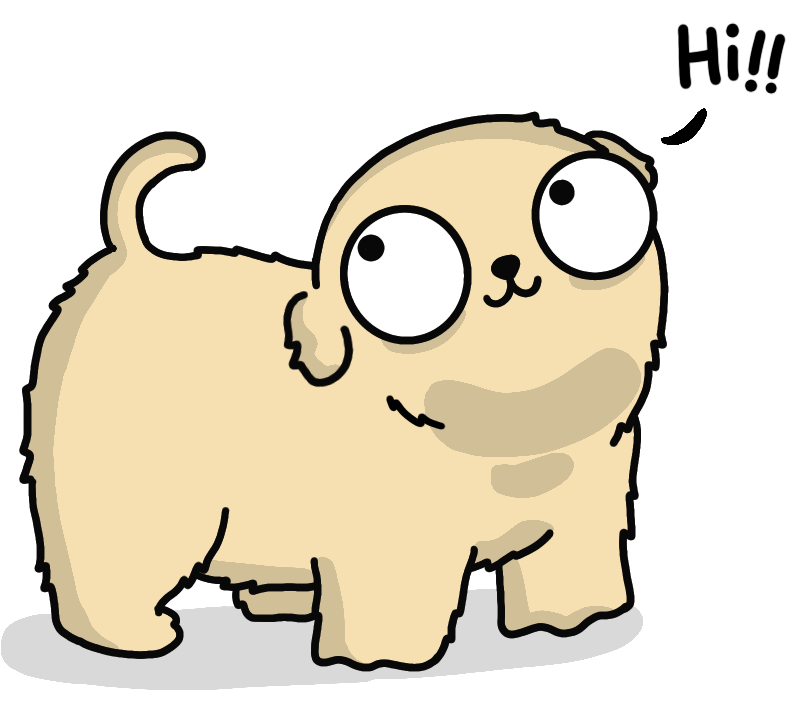
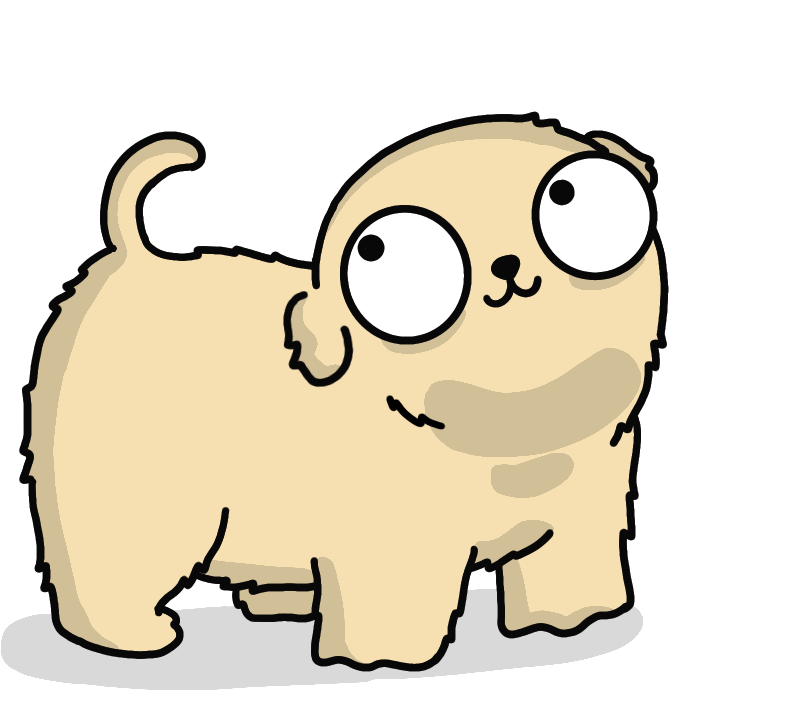
Gooshi's luffy hat - remove ace

Changed region(s): [[0.8385, 0.0312, 0.9938, 0.1562], [0.8075, 0.1562, 0.9006, 0.2188]]

diff --git a/assets/main.css b/assets/main.css
@@ -1430,6 +1430,7 @@ summary {
 /* Character Animation in About Page */
 
 .thought-cloud {
+  width: 93%;
   position: relative;
   max-width: 30em;
   background-color: #fff;
@@ -1546,7 +1547,7 @@ summary {
 }
 
 .subscribe-gooshi {
-  float: left; 
+  float: right; 
   margin-top: -60px; 
   z-index: 2; 
   position: relative;

diff --git a/_pages/contact.md b/_pages/contact.md
@@ -8,13 +8,20 @@ date: 2024-06-26
 
 <div class="all-posts">
 <div class="text-container">
-<p>Got a question or just want to say hi? <img class="twemoji" style="vertical-align: sub;" src="../assets/img/emoji/loveletter.svg" alt="letter"> I'd love to hear from you! Here’s how you can reach me:</p>
+<p>Got a question or just want to say hi? <img class="twemoji" style="vertical-align: sub;" src="../assets/img/emoji/in-letter.svg" alt="incoming letter"> I'd love to hear from you! Here’s how you can reach me:</p>
 <ul>
 <li><p>Email: <a class="underline" href="mailto:yo@pyblog.xyz">yo@pyblog.xyz</a></p></li>
 <li><p>Mastodon: <a class="underline" href="https://mastodon.social/@addu390" target="_blank">@addu390</a></p></li>
 <li><p>Twitter: <a class="underline" href="https://twitter.com/gooshi_addu" target="_blank">@addu390</a></p></li>
 </ul>
-<img style="float: right; width: 8.5em;" src="../assets/img/common/puppy-hi.png" />
+
+<div class="subscribe-gooshi" style="margin-top: 30px">
+    <img style="width: 6.8em;" src="../assets/img/common/puppy-hi.png" />
+    <p class="thought-cloud" style="bottom: 175px;"><img class="svg-icon" src="../assets/img/profile/gooshi-yo-text.svg" alt=""></p>
+</div>
+
+
+
 <p>For questions about a specific post, feel free to drop a comment at the end of the article; login using GitHub.</p>
 <p>For any queries about re-using the content, please check the <a class="underline" href="/privacy">Privacy Policy</a>.</p>
 </div>

diff --git a/_pages/about.md b/_pages/about.md
@@ -21,8 +21,8 @@ permalink: /about/
 <p>Recent Brags:</p>
 
 <div style="float: right; cursor: pointer;">
-    <img id="gooshi" src="../assets/img/profile/gooshi-looking-away.png" alt="Gooshi" style="width: 7.5em;">
-    <p class="thought-cloud"><img class="svg-icon" id="gooshi-says-hi" src="../assets/img/profile/gooshi.svg" alt=""></p>
+    <img id="gooshi" src="../assets/img/profile/gooshi-looking-away.png" alt="Gooshi" style="width: 6.6em;">
+    <p class="thought-cloud" style="bottom: 185px;"><img class="svg-icon" id="gooshi-says-hi" src="../assets/img/profile/gooshi.svg" alt=""></p>
 </div>
 <ul>
     <li>Revamped PyBlog with my top-of-the-line illustrations, algorithm visualizers, concept explanation series, and much more.</li>

diff --git a/_pages/subscribe.md b/_pages/subscribe.md
@@ -11,8 +11,8 @@ permalink: /subscribe/
 <div class="ml-embedded" style="margin-bottom: 1em" data-form="9OoTRn"></div>
 
 <div class="subscribe-gooshi" style="">
-    <img style="width: 8em;" src="../assets/img/common/puppy-letter.png" />
-    <p class="thought-cloud" style="bottom: 200px;"><img class="svg-icon" id="gooshi-says-hi" src="../assets/img/profile/gooshi-subscribe.svg" alt=""></p>
+    <img style="width: 6.6em;" src="../assets/img/common/puppy-letter.png" />
+    <p class="thought-cloud" style="bottom: 180px;"><img class="svg-icon" src="../assets/img/profile/gooshi-subscribe.svg" alt=""></p>
 </div>
 
 </div>
